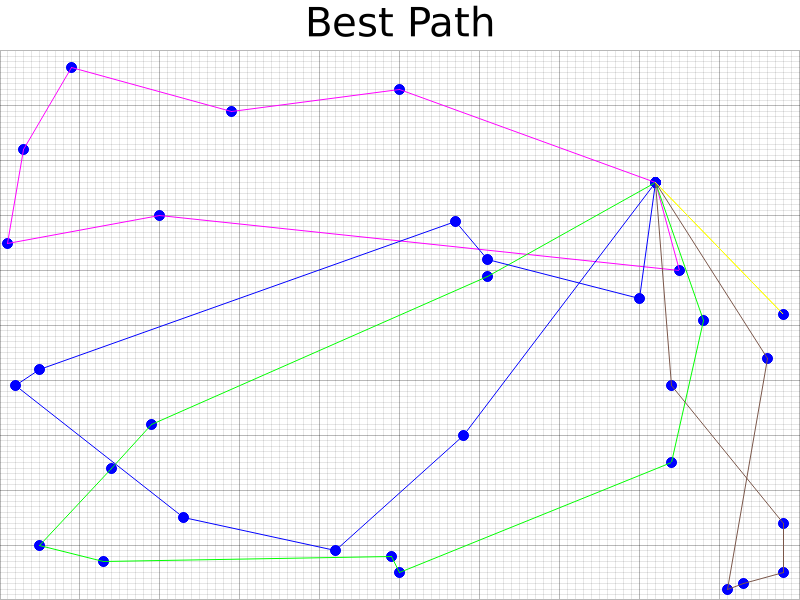
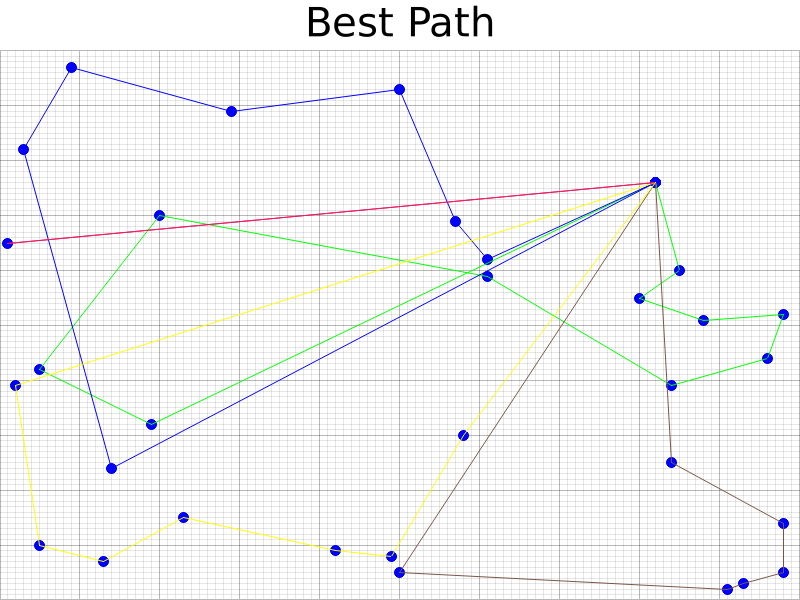
finished greedy search

diff --git a/algorithms/greedy_search.rs b/algorithms/greedy_search.rs
@@ -1,22 +1,51 @@
-use rand::seq::SliceRandom;
-
 use crate::core::{Instance, Node};
-use crate::evaluator::evaluate;
+use crate::evaluator::calculate_distance;
 
 pub fn greedy_search(instance: &Instance) -> (f64, Vec<Node>) {
-    let generations: i32 = 100;
+    let mut path: Vec<Node> = Vec::new();
+    let mut remaining_customers = instance.nodes.clone();
+    let mut current_capacity = instance.capacity;
+    let mut total_distance = 0.0;
 
-    let mut population: Vec<Node> = instance.nodes.clone();
-    let slice = &mut population[1..];
-    let mut rng = rand::rng();
-    slice.shuffle(&mut rng);
-    let (distance, path) = evaluate(instance, population);
+    let mut current_location = instance.nodes[0].clone();
 
+    path.push(current_location.clone());
 
-    for i in 0..generations {
-        
+    while !remaining_customers.is_empty() {
+        let mut closest_customer: Option<&Node> = None;
+        let mut min_distance = f64::INFINITY;
+        let mut index_to_remove = 0;
+
+        for (i, customer) in remaining_customers.iter().enumerate() {
+            if current_capacity >= customer.demand {
+                let distance = calculate_distance(&current_location, customer);
+                if distance < min_distance {
+                    min_distance = distance;
+                    closest_customer = Some(customer);
+                    index_to_remove = i;
+                }
+            }
+        }
+
+        if let Some(customer) = closest_customer {
+            path.push(customer.clone());
+            total_distance += min_distance;
+            current_location = customer.clone();
+            current_capacity -= customer.demand;
+            remaining_customers.remove(index_to_remove);
+        } else {
+            total_distance += calculate_distance(&current_location, &instance.nodes[0]);
+            path.push(instance.nodes[0].clone());
+            current_capacity += instance.capacity;
+            current_location = instance.nodes[0].clone();
+        }
     }
 
+    total_distance += calculate_distance(&current_location, &instance.nodes[0]);
+    path.push(instance.nodes[0].clone());
 
-    (distance, path)
+
+    (total_distance, path)
 }
+
+

diff --git a/src/main.rs b/src/main.rs
@@ -23,10 +23,11 @@ mod crossover;
 use core::{Node, Instance};
 use std::time::Instant;
 use plotters::prelude::*;
-use plotters::style::full_palette::BROWN;
+use plotters::style::full_palette::{BROWN, PINK};
 use crate::random_search::random_search;
 use crate::instance_loader::load_instance;
 use crate::genetic_algorithm::genetic_algorithm;
+use crate::greedy_search::greedy_search;
 macro_rules! time {
     ($expr:expr) => {{
         let start = Instant::now();
@@ -48,17 +49,17 @@ fn main() {
             return;
         }
     }
-    let (ga_distance, ga_path) = time!(genetic_algorithm(&instance));
-
-    println!("{} {:?}", ga_distance, ga_path);
+    //let (ga_distance, ga_path) = time!(genetic_algorithm(&instance));
+    let (gr_distance, gr_path) = time!(greedy_search(&instance));
+    println!("{} {:?}", gr_distance, gr_path);
     //let (shortest_path, best_index, best_path) = time!(random_search(&instance));
 
     //println!("Shortest path: {}, found at index: {}", shortest_path, best_index);
     //for node in &best_path {
         //print!("{} ", node.id);
-    //}
+    //} 
 
-    plot_best_path(&ga_path);
+    plot_best_path(&gr_path);
 }
 
 
@@ -85,7 +86,7 @@ fn plot_best_path(best_path: &Vec<Node>) {
     ).unwrap();
 
     let mut prev_node: Option<&Node> = None;
-    let line_colors = [&RED, &MAGENTA, &GREEN, &BLUE, &BROWN, &YELLOW];
+    let line_colors = [&RED, &MAGENTA, &GREEN, &BLUE, &BROWN, &YELLOW, &PINK];
     let mut color_idx = 0;
     for node in best_path {
         if let Some(prev) = prev_node {

diff --git a/core/evaluator.rs b/core/evaluator.rs
@@ -33,6 +33,6 @@ pub fn evaluate(instance: &Instance, path: Vec<Node>) -> (f64, Vec<Node>) {
     (distance, updated_path)
 } 
 
-fn calculate_distance(n1: &Node, n2: &Node) -> f64 {
+pub fn calculate_distance(n1: &Node, n2: &Node) -> f64 {
     ((n2.x as f64 - n1.x as f64).powi(2) + (n2.y as f64 - n1.y as f64).powi(2)).sqrt()
 }
